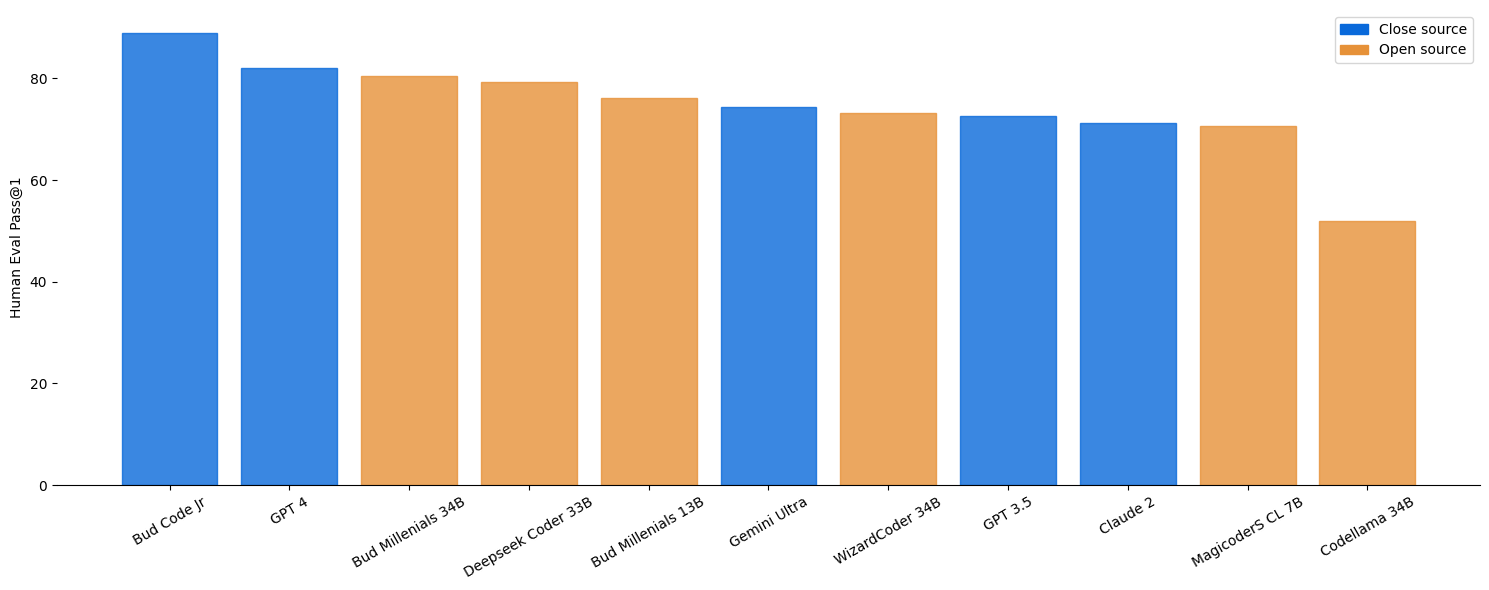
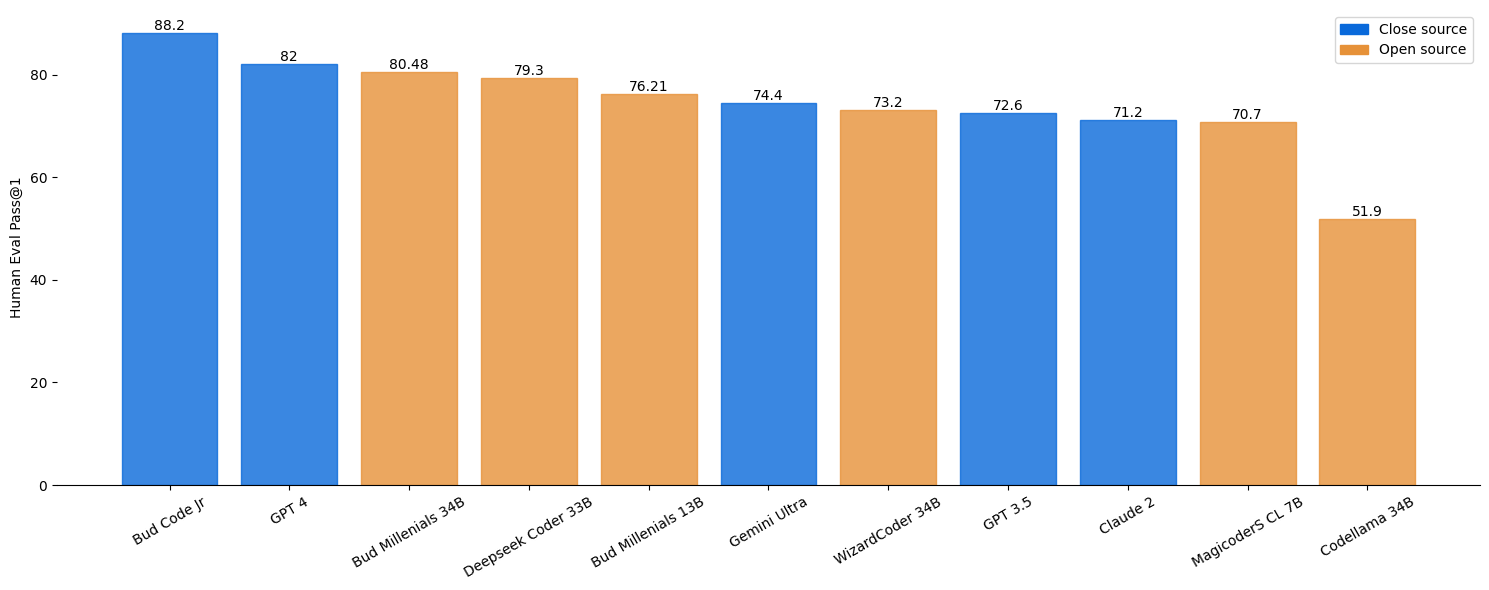
update result graph

diff --git a/README.md b/README.md
@@ -13,7 +13,7 @@ Welcome to our Code Model repository! Our model is specifically fine-tuned for c
 ### HumanEval
 
 <p align="center" width="100%">
-<a ><img src="assets/result.png" alt="WizardCoder" style="width: 100%; min-width: 300px; display: block; margin: auto;"></a>
+<a ><img src="assets/result.png" alt="CodeMillenials" style="width: 100%; min-width: 300px; display: block; margin: auto;"></a>
 </p>
 
 For the millenial models, the eval script is used for the above result.
